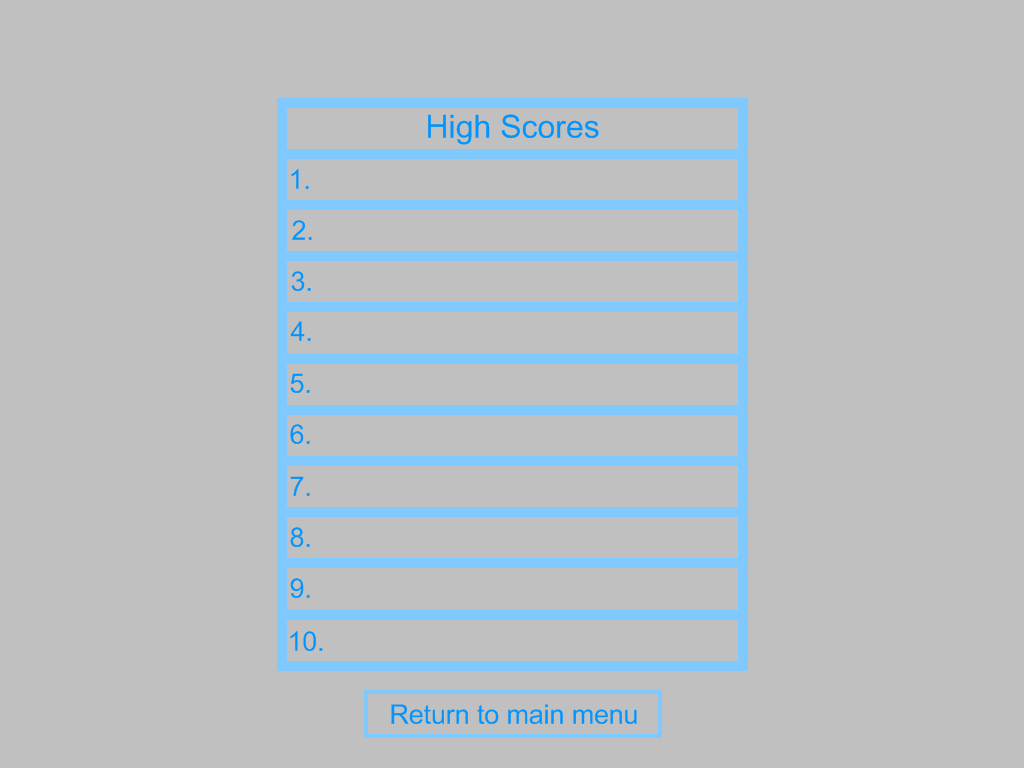
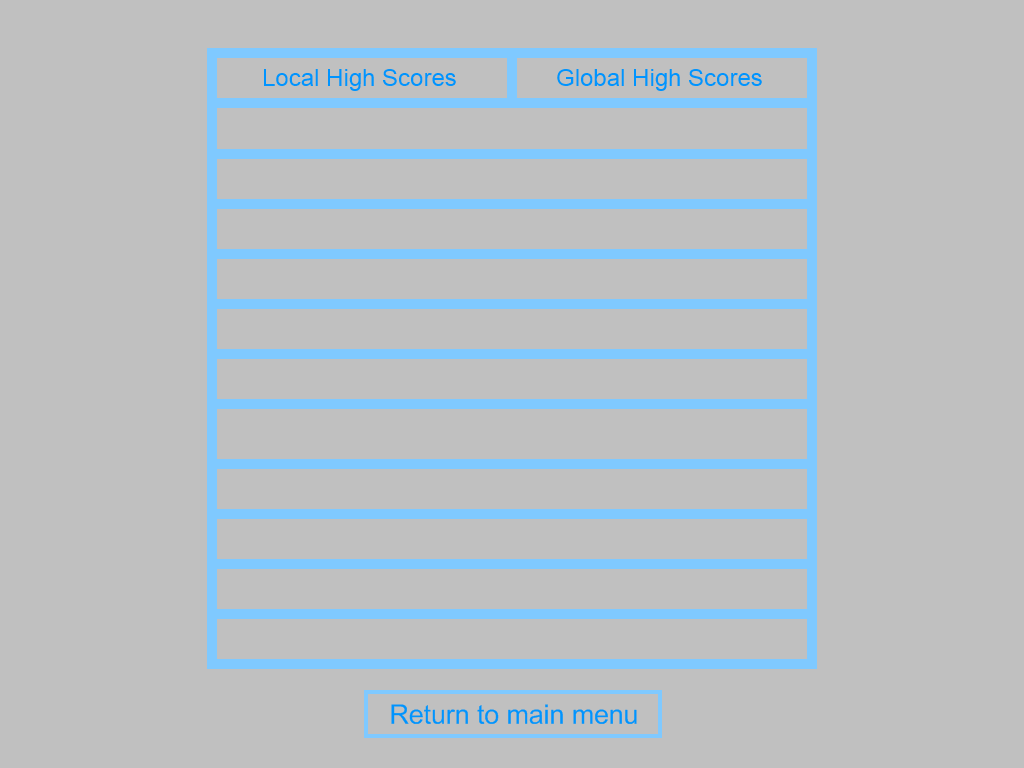
Updated high scores page and added tab functionality. Made buttons work when given no container.

Changed region(s): [[0.1875, 0.0625, 0.8125, 0.875], [0.4062, 0.1562, 0.5938, 0.1875]]

diff --git a/source/high_scores_window.py b/source/high_scores_window.py
@@ -5,8 +5,8 @@ from constants import *
 from data import GameData
 from window import Window
 from button import Button
+from high_scores_helpers import HighScores
 
-#TODO: external database for global high scores (how to securely access?)
 class HighScoresWindow(Window):
     def __init__(self, size, caption=None, win=None):
         Window.__init__(self, size, caption, win)
@@ -14,6 +14,11 @@ class HighScoresWindow(Window):
 
         button_image = GameData.image(BUTTON_IMG)
         self.main_menu_button = Button((368, 694), button_image, self.buttons)
+        self.local_button = Button((217, 58), button_image)
+        self.global_button = Button((517, 58), button_image, self.buttons)
+
+        self.tab_container = pygame.sprite.LayeredDirty()
+        self.tab = Tab(self.tab_container)
 
     def setup(self):
         self.screen.blit(self.background, (0, 0))
@@ -28,6 +33,52 @@ class HighScoresWindow(Window):
                 selection = self.selectedButton()
                 if selection == self.main_menu_button:
                     self.running = False
+                elif selection == self.local_button:
+                    self.tab.setScopeLocal()
+                    self.buttons.add(self.global_button)
+                    self.buttons.remove(self.local_button)
+                elif selection == self.global_button:
+                    self.tab.setScopeGlobal()
+                    self.buttons.add(self.local_button)
+                    self.buttons.remove(self.global_button)
+
+    def clear(self):
+        self.tab_container.clear(self.screen, self.background)
+
+    def draw(self):
+        dirty = self.tab_container.draw(self.screen)
+        return dirty
+
+class Tab(pygame.sprite.DirtySprite):
+    def __init__(self, container):
+        pygame.sprite.DirtySprite.__init__(self, container)
+        self.image = pygame.Surface((290, 10))
+        self.image.fill(BGD_COLOR)
+        self.rect = pygame.Rect(0, 0, 290, 10)
+        self.visible = 1
+        self.state = None
+        self.setScopeLocal()
+
+    def setScopeLocal(self):
+        if self.state != 'local':
+            self.state = 'local'
+            self.rect.topleft = (217, 98)
+            self.dirty = 1
+
+    def setScopeGlobal(self):
+        if self.state != 'global':
+            self.state = 'global'
+            self.rect.topleft = (517, 98)
+            self.dirty = 1
+
+##class Entry(pygame.sprite.DirtySprite):
+##    def __init__(self, container):
+##        pygame.sprite.DirtySprite.__init__(self, container)
+##        self.image = pygame.Surface((290, 10))
+##        self.image.fill(BGD_COLOR)
+##        self.rect = pygame.Rect(0, 0, 290, 10)
+##        self.visible = 1
+##        self.setScopeLocal()
 
 if __name__ == '__main__':
     pygame.init()

diff --git a/source/constants.py b/source/constants.py
@@ -1,4 +1,6 @@
 
+import pygame
+
 SCREEN_WIDTH = 1024
 SCREEN_HEIGHT = 768
 
@@ -7,6 +9,8 @@ BUTTON_IMG = 'selection_outline.png'
 MAIN_BGD_IMG = 'main_menu.png'
 INSTRUCTIONS_BGD_IMG = 'instructions.png'
 HIGH_SCORES_BGD_IMG = 'high_scores.png'
+
+BGD_COLOR = pygame.Color(192, 192, 192)
 
 BGD_MUSIC = 'Mechanolith.mp3'
 

diff --git a/source/button.py b/source/button.py
@@ -2,7 +2,7 @@
 import pygame
 
 class Button(pygame.sprite.DirtySprite):
-    def __init__(self, pos, image, container=None):
+    def __init__(self, pos, image, container=()):
         pygame.sprite.DirtySprite.__init__(self, container)
         self.image = image
         self.rect = self.image.get_rect(topleft=pos)

diff --git a/source/high_scores_helpers.py b/source/high_scores_helpers.py
@@ -9,6 +9,7 @@ class Score:
         self.level = level
         self.date = date
 
+#TODO: external database for global high scores (how to securely access?)
 class HighScores:
     def __init__(self):
         # connect to database or set it up if it doesn't exist
